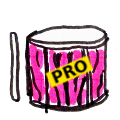
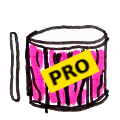
Improve controls
* replace stop with seekToStart
* add repeat button
* update playpause button when finishing
* upgrade assets

Changed region(s): [[0.325, 0.4, 0.85, 0.8]]

diff --git a/assets/js/controller.js b/assets/js/controller.js
@@ -1,4 +1,5 @@
 var playing = false
+var repeat = false
 const speedSlider = document.getElementById("speed-slider")
 const players = new Map()
 
@@ -45,6 +46,15 @@ function init(brk, titleBlockId, tracksContainerId)
     });
     player.load(tracks[i]["audio"]);
     player.on('seek', function (progress) { seekTo(progress) })
+    player.on('finish', function () {
+      if(repeat) {
+        player.play()
+      }
+      else {
+        pause()
+        reset()
+      }
+    })
     players.set(track, player)
   }
 }
@@ -79,8 +89,7 @@ function seekTo(progress) {
   })
 }
 
-function stop() {
-  pause()
+function reset() {
   seekTo(0)
 }
 
@@ -122,6 +131,15 @@ function muter(instrument) {
   return function(){ toggleMute(instrument) }
 }
 
+function toggleRepeat() {
+  repeat = !repeat
+  if(repeat) {
+    document.getElementById("repeat-button").classList.remove("muted")
+  } else {
+    document.getElementById("repeat-button").classList.add("muted")
+  }
+}
+
 function handleKeypress(e) {
   switch(e.which) {
     case 32: // space
@@ -143,6 +161,9 @@ function handleKeypress(e) {
     case 40: // down arrow
       slowdown()
       e.preventDefault()
+      break
+    case 66: // B key
+      toggleRepeat()
       break
   }
 }

diff --git a/jukebox.html b/jukebox.html
@@ -24,10 +24,11 @@
     <div id="tracks" />
 
     <div id="playback-controls" class="w3-card-4">
-      <div class="control-button"><img src="./assets/img/stop.png" class="button-img" onclick="stop()"></div>
+      <div class="control-button"><img src="./assets/img/stop.png" class="button-img" onclick="reset()"></div>
       <div class="control-button"><img src="./assets/img/rewind.png" class="button-img" onclick="skipBackward()"></div>
       <div class="control-button"><img src="./assets/img/play.png" class="button-img" id="playButton" onclick="playPause()"></div>
       <div class="control-button"><img src="./assets/img/forward.png" class="button-img" onclick="skipForward()"></div>
+      <div class="control-button"><img src="./assets/img/repeat.png" class="button-img muted" id="repeat-button" onclick="toggleRepeat()"></div>
     </div>
   </div>
 
